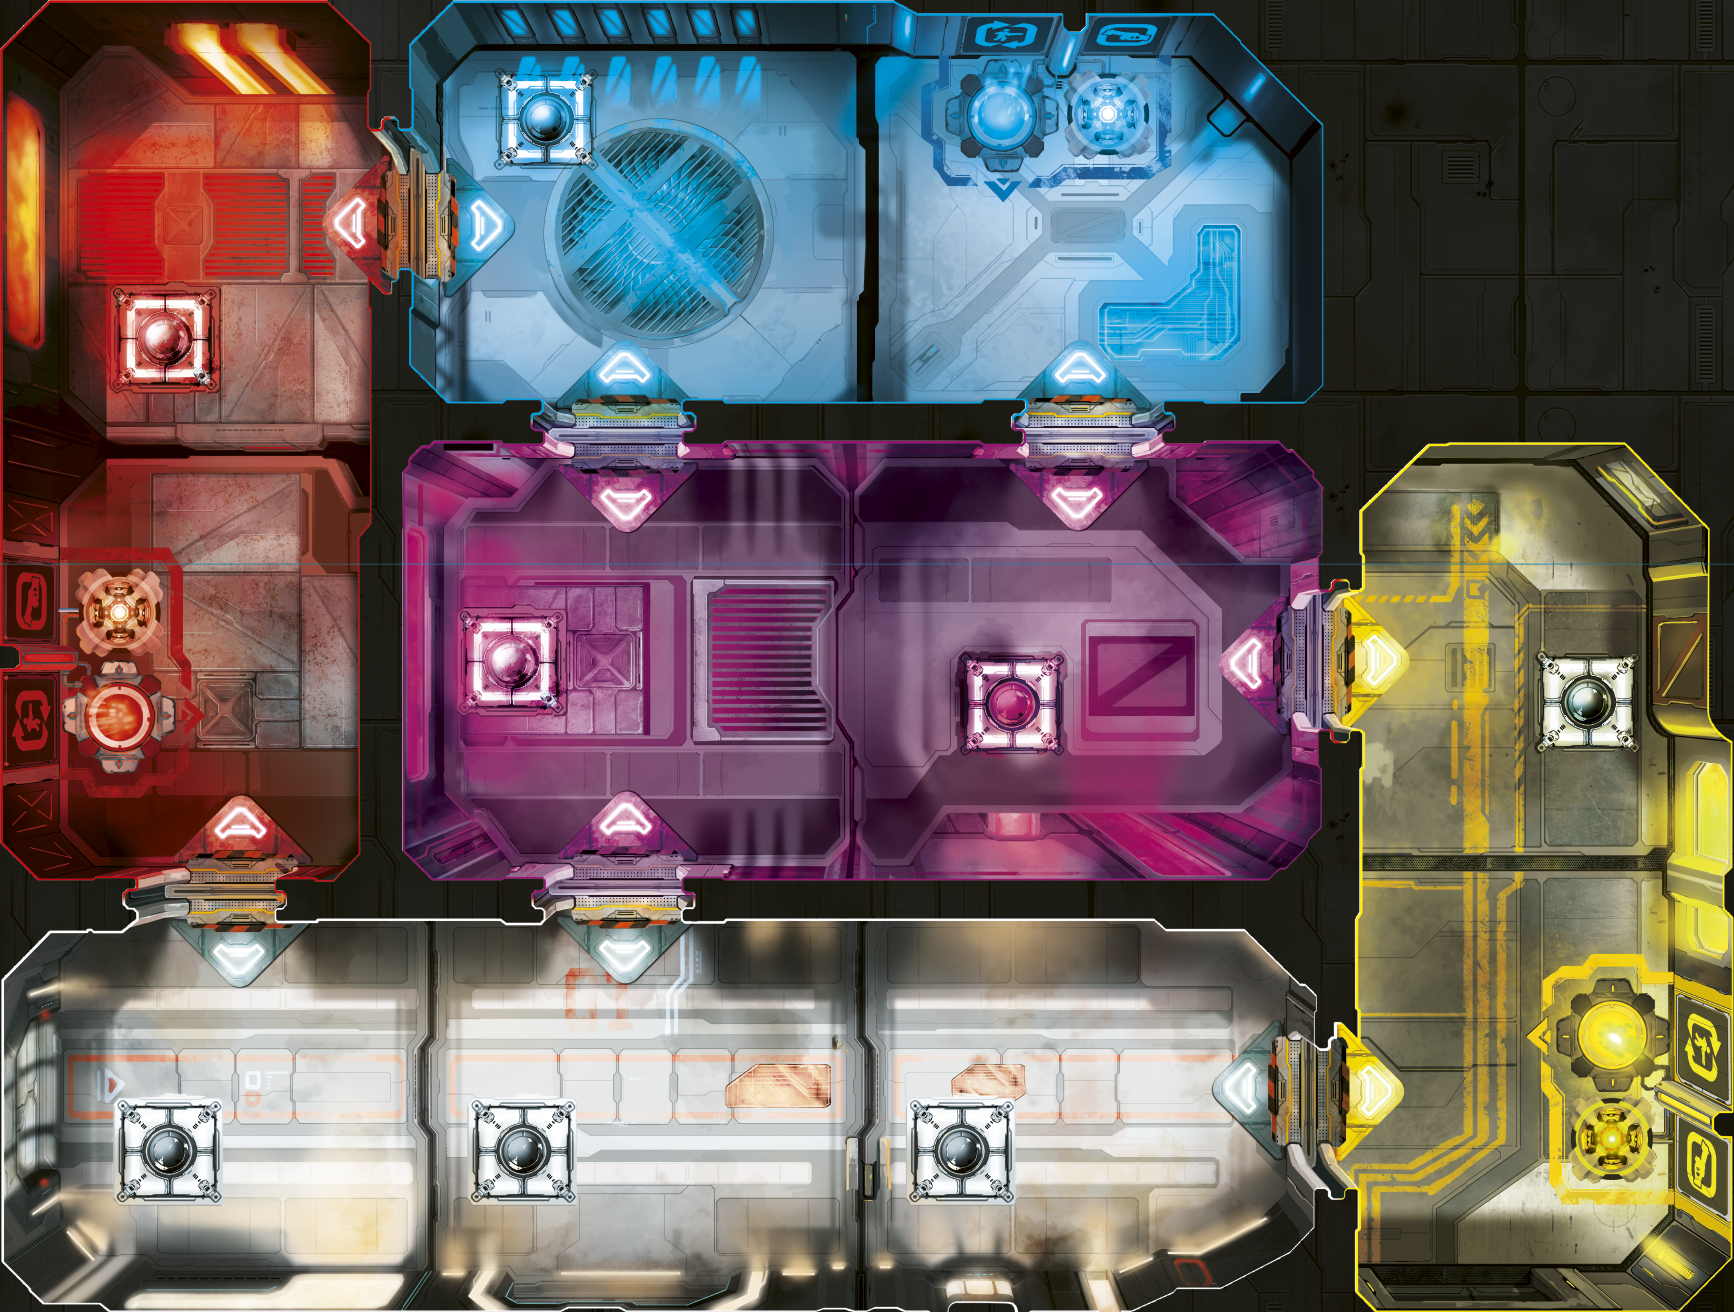
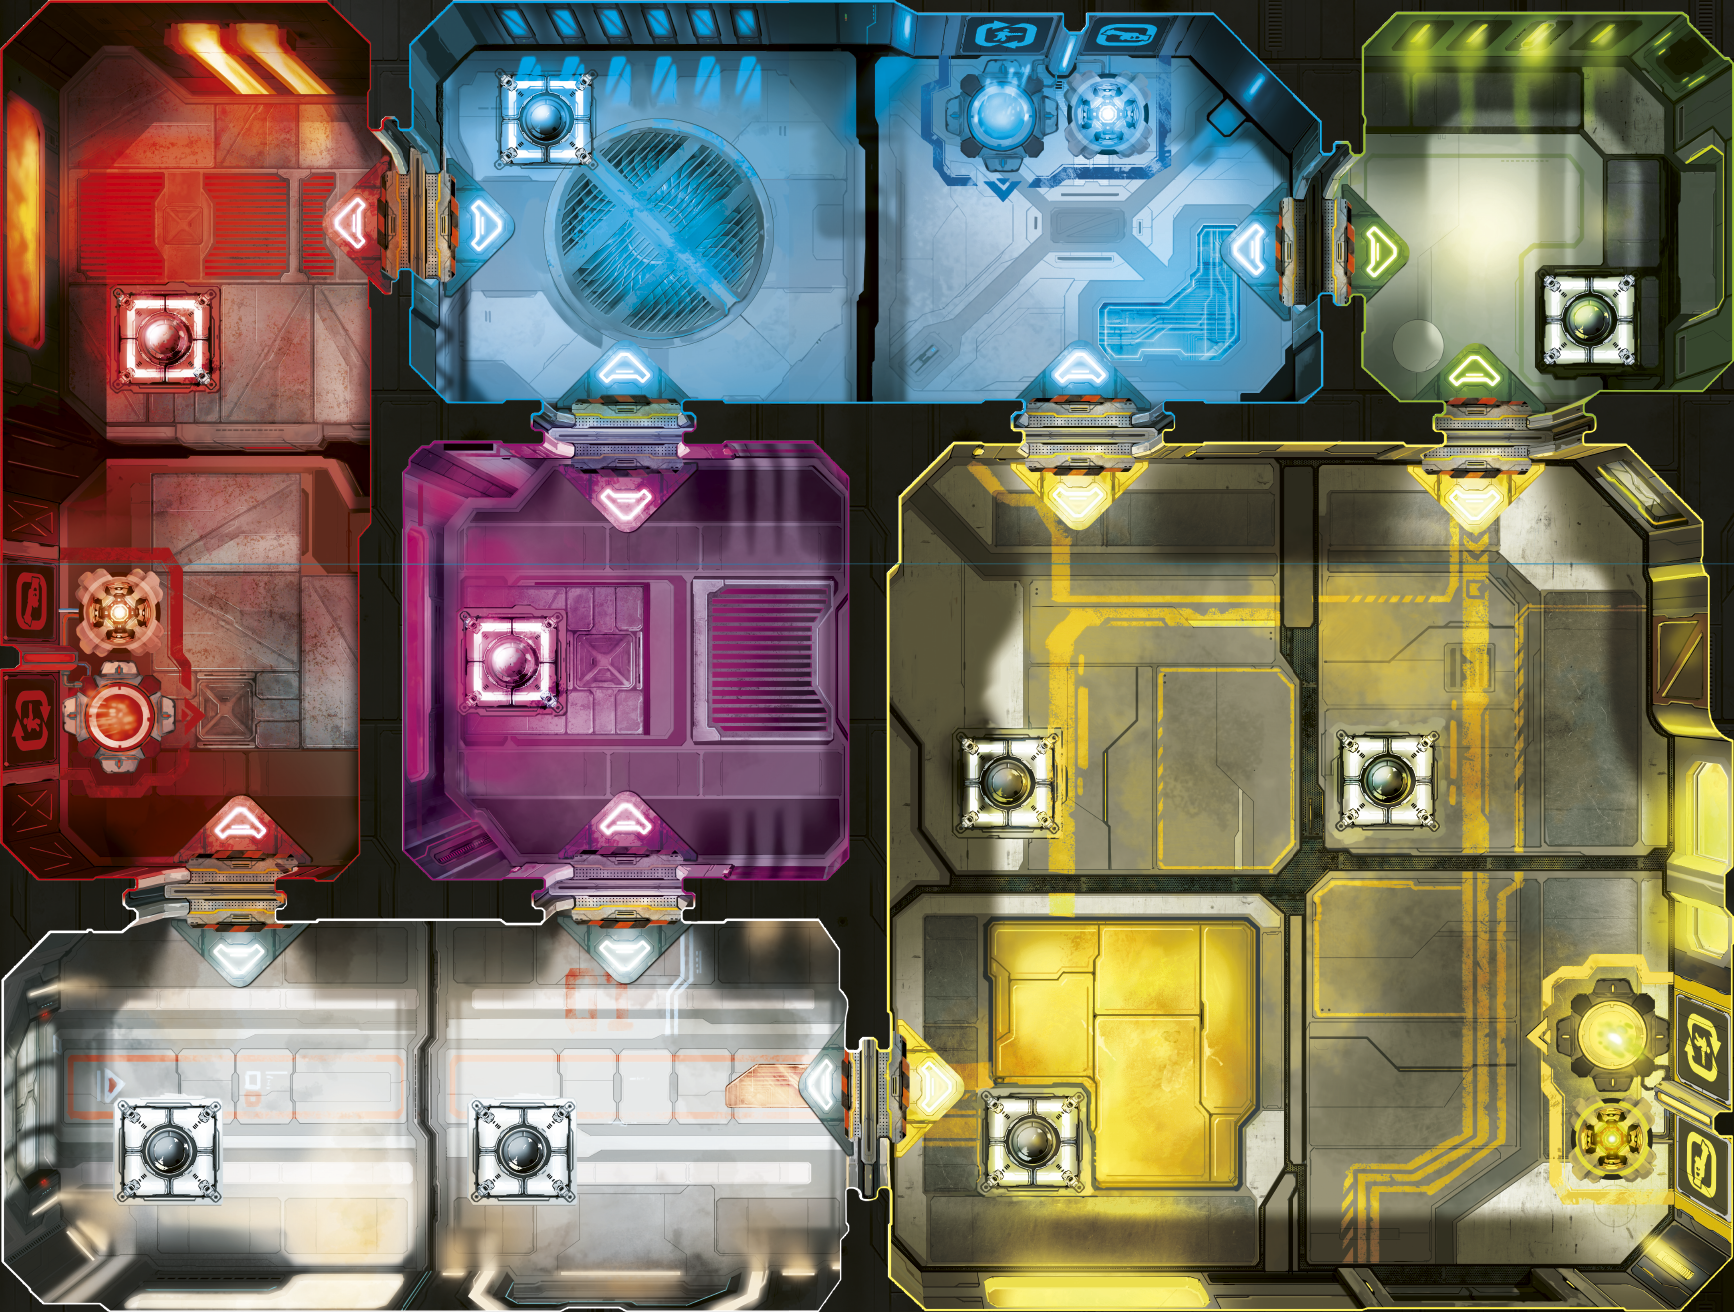
update ingamecontroller (added map setting)

diff --git a/src/main/java/client/view/gui/javafx_controllers/in_game/InGameController.java b/src/main/java/client/view/gui/javafx_controllers/in_game/InGameController.java
@@ -69,8 +69,6 @@ public class InGameController extends AbstractJavaFxController {
       bottom.getChildren().add( weaponHandController.getNode() );
       bottom.getChildren().add( spacerFactory() );
       bottom.getChildren().get( 1 ).toFront();   //move chat to the right
-      //TODO: set map for test
-      mapController.setMap(0);
       //init pc listeners
       pcs.addListener( mapController.playerObserver );
       pcs.addListener( topController.pcListener );
@@ -188,6 +186,7 @@ public class InGameController extends AbstractJavaFxController {
     public void onGameBoardUpdate(GameBoardEvent event) {
       for(SquareDTO s:event.getDTO().getSquares())
          squares.put( s,s );
+      mapController.setMap( event.getDTO().getNumberOfMap() );
     }
    
    @Override
